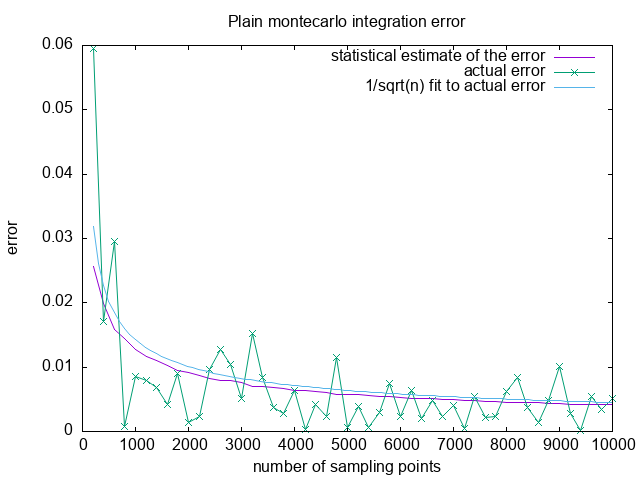
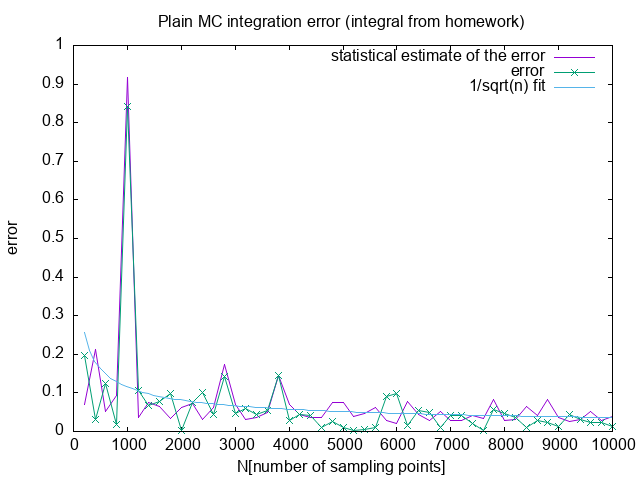
-

diff --git a/homeworks/monte_carlo/A/main.cs b/homeworks/monte_carlo/A/main.cs
@@ -77,15 +77,14 @@ int n = 1000;
 if(args.Length > 0){
    n = (int)double.Parse(args[0]);
    }
-double R = 1;
-Func<vector,double> f = x =>{
-	if(x.norm()<=R)return 1;
-	else return 0;
+//double R = 1;
+Func<vector,double> f = z =>{
+	return 1.0/(1.0 - Cos(z[0])*Cos(z[1])*Cos(z[2]))/(PI*PI*PI);
 	};
-vector a = new vector(0.0, 0.0);
-vector b = new vector(1.0, 1.0);
+vector a = new vector(0.0, 0.0, 0.0);
+vector b = new vector(PI, PI, PI);
 (double q, double e) = plain(f,a,b,n);
-double exact = PI/4;
+double exact = 1.3932039296856768591842462603255;
 WriteLine($"{n} {q} {e} {Abs(q-exact)}"); 
 } // Main
 } // class main
